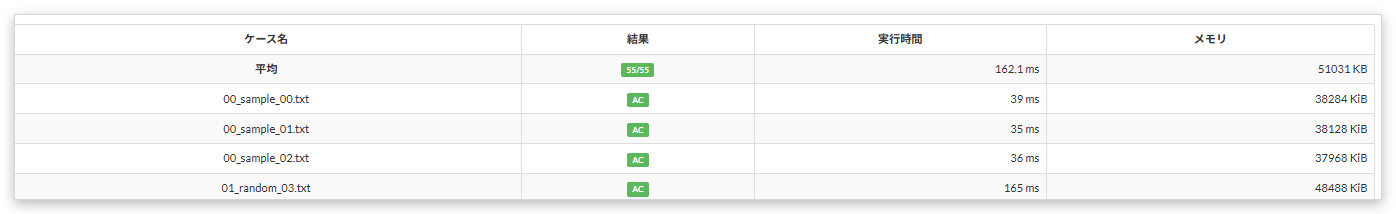
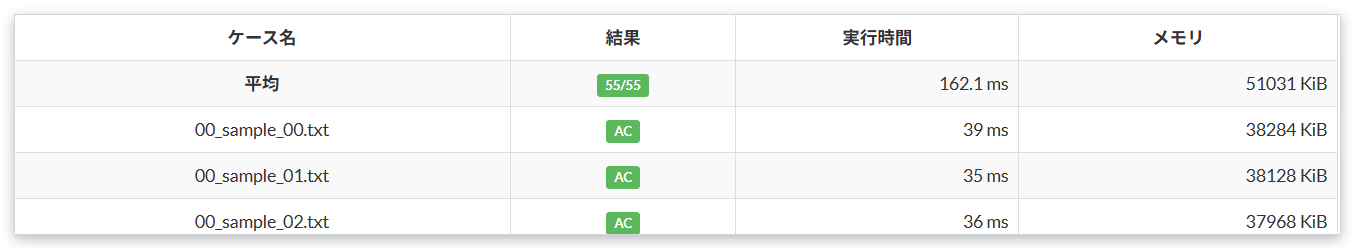
fix: CP Toolkit の AC 提出へのボタンをコンテスト中は出さず、ログインが必要な画像を撮り直す

diff --git a/userscripts/CpToolkit/tests/features/page-features.test.ts b/userscripts/CpToolkit/tests/features/page-features.test.ts
@@ -12,7 +12,7 @@ import {submissionQuery} from "@features/submission-query/index";
 import {submissionShortcuts} from "@features/submission-shortcuts/index";
 import {tessokuDifficulty} from "@features/tessoku-difficulty/index";
 import {topLinks} from "@features/top-links/index";
-import {createFakeServices, FakeHttpClient} from "../support/fakes";
+import {createFakePage, createFakeServices, FakeHttpClient} from "../support/fakes";
 
 const run = (feature: Feature, options?: unknown, overrides = {}) => feature.run(options, createFakeServices(overrides));
 const wait = (ms: number) => new Promise((resolve) => setTimeout(resolve, ms));
@@ -63,7 +63,7 @@ describe("submissionShortcuts", () => {
 
 	test("AC 提出へのボタンであることが分かるようにまとめて表示する", async () => {
 		renderTitle();
-		await run(submissionShortcuts, {language: "Java"});
+		await run(submissionShortcuts, {language: "Java"}, {page: createFakePage()});
 		const control = document.querySelector(".cp-title-control");
 		expect(control?.firstElementChild?.textContent).toBe("AC提出:");
 		const links = [...(control?.querySelectorAll<HTMLAnchorElement>(".btn-group a") ?? [])];
@@ -78,18 +78,25 @@ describe("submissionShortcuts", () => {
 
 	test("詳細設定で選んだボタンだけを出し、1つもなければ何も出さない", async () => {
 		renderTitle();
-		await run(submissionShortcuts, {byTime: false, byLength: true, byCreated: false, byMemory: true});
+		await run(submissionShortcuts, {byTime: false, byLength: true, byCreated: false, byMemory: true}, {page: createFakePage()});
 		const links = [...document.querySelectorAll(".cp-title-control .btn-group a")];
 		expect(links.map(({textContent}) => textContent)).toEqual(["コード長", "メモリ"]);
 
 		renderTitle();
-		await run(submissionShortcuts, {byTime: false, byLength: false, byCreated: false, byMemory: false});
+		await run(submissionShortcuts, {byTime: false, byLength: false, byCreated: false, byMemory: false}, {page: createFakePage()});
+		expect(document.querySelector(".cp-title-control")).toBeNull();
+	});
+
+	test("コンテスト中は出さない", async () => {
+		renderTitle();
+		const period = {startMs: Date.now() - 60_000, endMs: Date.now() + 60_000};
+		await run(submissionShortcuts, undefined, {page: createFakePage({contestPeriod: () => period})});
 		expect(document.querySelector(".cp-title-control")).toBeNull();
 	});
 
 	test("後始末で取り除く", async () => {
 		renderTitle();
-		const dispose = await run(submissionShortcuts);
+		const dispose = await run(submissionShortcuts, undefined, {page: createFakePage()});
 		dispose?.();
 		expect(document.querySelector(".cp-title-control")).toBeNull();
 	});
@@ -98,7 +105,7 @@ describe("submissionShortcuts", () => {
 		renderTitle();
 		document.body.insertAdjacentHTML("beforeend", '<div id="task-statement"></div>');
 		const write = mock((_text: string) => undefined);
-		await run(submissionShortcuts);
+		await run(submissionShortcuts, undefined, {page: createFakePage()});
 		await run(statementCopy, undefined, {clipboard: {write}, statementConverter: new TurndownStatementConverter()});
 		document.querySelector<HTMLElement>(".pull-right button")?.click();
 		expect(write.mock.calls[0]?.[0]).toStartWith("# A - Sample\n");

diff --git a/userscripts/CpToolkit/dist/CpToolkit.user.js b/userscripts/CpToolkit/dist/CpToolkit.user.js
@@ -1976,7 +1976,7 @@ a:focus > .cp-settings-entry {
 		"submissionQuery.description": "Keeps search filters when switching between All and My submissions.",
 		"submissionShortcuts.title": "AC submission buttons",
 		"submissionShortcuts.description":
-			"Adds buttons that open the AC submissions for the task, sorted by time, code size, submission time or memory. Choose the buttons to show in the detailed settings.",
+			"Adds buttons that open the AC submissions for the task, sorted by time, code size, submission time or memory. Choose the buttons to show in the detailed settings. They are hidden during a contest.",
 		"submissionShortcuts.language": "Language (empty for all)",
 		"submissionShortcuts.label": "AC submissions",
 		"submissionShortcuts.time": "Time",
@@ -2193,7 +2193,7 @@ a:focus > .cp-settings-entry {
 		"submissionQuery.description": "提出一覧の「すべての提出」と「自分の提出」を切り替えても、検索条件を保ちます。",
 		"submissionShortcuts.title": "AC 提出へのボタン",
 		"submissionShortcuts.description":
-			"問題ページに、この問題の AC 提出を実行時間、コード長、提出時間、メモリの順で開くボタンを追加します。出すボタンは詳細設定で選べます。",
+			"問題ページに、この問題の AC 提出を実行時間、コード長、提出時間、メモリの順で開くボタンを追加します。出すボタンは詳細設定で選べます。コンテスト中は表示しません。",
 		"submissionShortcuts.language": "言語(空欄ならすべて)",
 		"submissionShortcuts.label": "AC提出",
 		"submissionShortcuts.time": "実行時間",
@@ -9751,9 +9751,14 @@ ${statement_highlight_default}`);
 			byMemory: option.boolean(true, "submissionShortcuts.byMemory"),
 		},
 		live: true,
-		start({options, translate}) {
+		start({options, page, translate}) {
 			const task = parseAtCoderTaskUrl(location.href);
 			const title = document.querySelector(".h2");
+			const period = page.contestPeriod();
+			if (period && page.serverNow() < period.endMs)
+				return () => {
+					return;
+				};
 			const orders = ORDERS.filter((order) => options[order.option]);
 			if (!task || !title || orders.length === 0)
 				return () => {

diff --git a/userscripts/CpToolkit/src/features/submission-shortcuts/index.ts b/userscripts/CpToolkit/src/features/submission-shortcuts/index.ts
@@ -27,9 +27,12 @@ export const submissionShortcuts = defineFeature({
 		byMemory: option.boolean(true, "submissionShortcuts.byMemory"),
 	},
 	live: true,
-	start({options, translate}) {
+	start({options, page, translate}) {
 		const task = parseAtCoderTaskUrl(location.href);
 		const title = document.querySelector(".h2");
+		// コンテスト中は他の人の提出を見られないので、終わるまで出さない
+		const period = page.contestPeriod();
+		if (period && page.serverNow() < period.endMs) return () => undefined;
 		const orders = ORDERS.filter((order) => options[order.option]);
 		if (!task || !title || orders.length === 0) return () => undefined;
 

diff --git a/userscripts/CpToolkit/docs/features/submission-shortcuts.md b/userscripts/CpToolkit/docs/features/submission-shortcuts.md
@@ -2,13 +2,14 @@
 
 [機能一覧へ戻る](../../README.md#4-機能一覧) ・ [English](submission-shortcuts.en.md)
 
-> 問題ページに、この問題の AC 提出を実行時間、コード長、提出時間、メモリの順で開くボタンを追加します。出すボタンは詳細設定で選べます。
+> 問題ページに、この問題の AC 提出を実行時間、コード長、提出時間、メモリの順で開くボタンを追加します。出すボタンは詳細設定で選べます。コンテスト中は表示しません。
 
 ![AC 提出へのボタン](../images/submission-shortcuts.png)
 
 ## 使い方
 
-- 問題名の横に「AC提出: 実行時間 | コード長 | 提出時間 | メモリ」のボタンを置きます。押すと、この問題の AC 提出をその順に並べた一覧を開きます
+- 問題名の横に「AC提出: 実行時間 | コード長 | 提出時間 | メモリ」のボタンを置きます。押すと、この問題の AC 提出をその順に並べた一覧を開きます。実行時間、コード長、メモリは小さい順、提出時間は古い順です
+- コンテスト中は他の人の提出を見られないので、コンテストが終わるまでボタンを出しません
 - 出すボタンは、詳細設定のチェックで選べます。1つも選ばなければ何も出しません
 - 詳細設定で言語を指定すると、その言語の提出だけに絞ります
 

diff --git a/userscripts/CpToolkit/docs/features/submission-shortcuts.en.md b/userscripts/CpToolkit/docs/features/submission-shortcuts.en.md
@@ -2,13 +2,14 @@
 
 [Back to the feature list](../../README.en.md#4-feature-list) ・ [日本語](submission-shortcuts.md)
 
-> Adds buttons that open the AC submissions for the task, sorted by time, code size, submission time or memory. Choose the buttons to show in the detailed settings.
+> Adds buttons that open the AC submissions for the task, sorted by time, code size, submission time or memory. Choose the buttons to show in the detailed settings. They are hidden during a contest.
 
 ![AC submission buttons](../images/submission-shortcuts.png)
 
 ## How it works
 
-- Adds "AC submissions: Time | Size | Submitted | Memory" buttons next to the task name. Each opens the AC submissions for the task in that order
+- Adds "AC submissions: Time | Size | Submitted | Memory" buttons next to the task name. Each opens the AC submissions for the task in that order: smallest first for time, size and memory, and oldest first for submission time
+- Other people's submissions are hidden during a contest, so the buttons appear only after the contest ends
 - Choose the buttons to show with the checkboxes in the detailed settings. Nothing is shown when none is checked
 - Setting a language in the detailed settings narrows the list to that language
 

diff --git a/userscripts/CpToolkit/docs/features/task-status.en.md b/userscripts/CpToolkit/docs/features/task-status.en.md
@@ -10,7 +10,7 @@
 
 - Colors the rows of the task list and the Tasks tab menu by the results of your submissions
 - Your submission list is read, so submissions both during and after the contest are reflected
-- A task with at least one AC or scored submission gets the accepted color (light green by default), and a task with submissions but none accepted gets the rejected color (light red by default). Submissions still being judged are not counted.
+- A task with at least one AC or scored submission gets the accepted color (light green by default), and a task with submissions but none accepted gets the rejected color (light red by default). Submissions still being judged are not counted. In the image above, A to D are accepted, E is rejected, and F and G have no submissions
 - The colors can be changed in the detailed settings
 - Nothing is fetched while you are logged out or in the first 5 minutes of a contest
 

diff --git a/userscripts/CpToolkit/docs/features/task-status.md b/userscripts/CpToolkit/docs/features/task-status.md
@@ -10,7 +10,7 @@
 
 - 問題一覧の行と「問題」タブのメニューを、自分の提出の結果で色分けします
 - 自分の提出一覧を読むので、コンテスト中とコンテスト後の提出をどちらも反映します
-- AC か得点のある提出が1つでもあれば正解の色(既定は薄い緑)、提出があって正解がなければ不正解の色(既定は薄い赤)にします。判定中の提出は数えません
+- AC か得点のある提出が1つでもあれば正解の色(既定は薄い緑)、提出があって正解がなければ不正解の色(既定は薄い赤)にします。判定中の提出は数えません。上の画像では、A〜D が正解、E が不正解、F と G は提出なしです
 - 色は詳細設定で変えられます
 - ログインしていないときと、コンテストの開始から5分の間は取得しません
 

diff --git a/userscripts/CpToolkit/docs/features/wide-layout.md b/userscripts/CpToolkit/docs/features/wide-layout.md
@@ -8,7 +8,6 @@
 
 - ページ中央の幅を、詳細設定で指定した幅に広げます。幅は `75%` や `1200px` のように書きます。**作者のおすすめは `75%` です**
 - 既定では幅が空欄なので、何も変わりません。使うときは幅を指定してください
-- 幅を指定したときは、広げたエディタの右端が背景と見分けやすいよう、エディタに灰色の枠線を付けます
 
 ## 詳細設定
 

diff --git a/userscripts/CpToolkit/docs/features/wide-layout.en.md b/userscripts/CpToolkit/docs/features/wide-layout.en.md
@@ -8,7 +8,6 @@
 
 - Widens the central column to the width set in the detailed settings, such as `75%` or `1200px`. **`75%` is recommended by the author**
 - The width is empty by default, so nothing changes until you set one
-- When a width is set, the editor gets a gray border so its right edge stands out from the background
 
 ## Detailed settings
 
